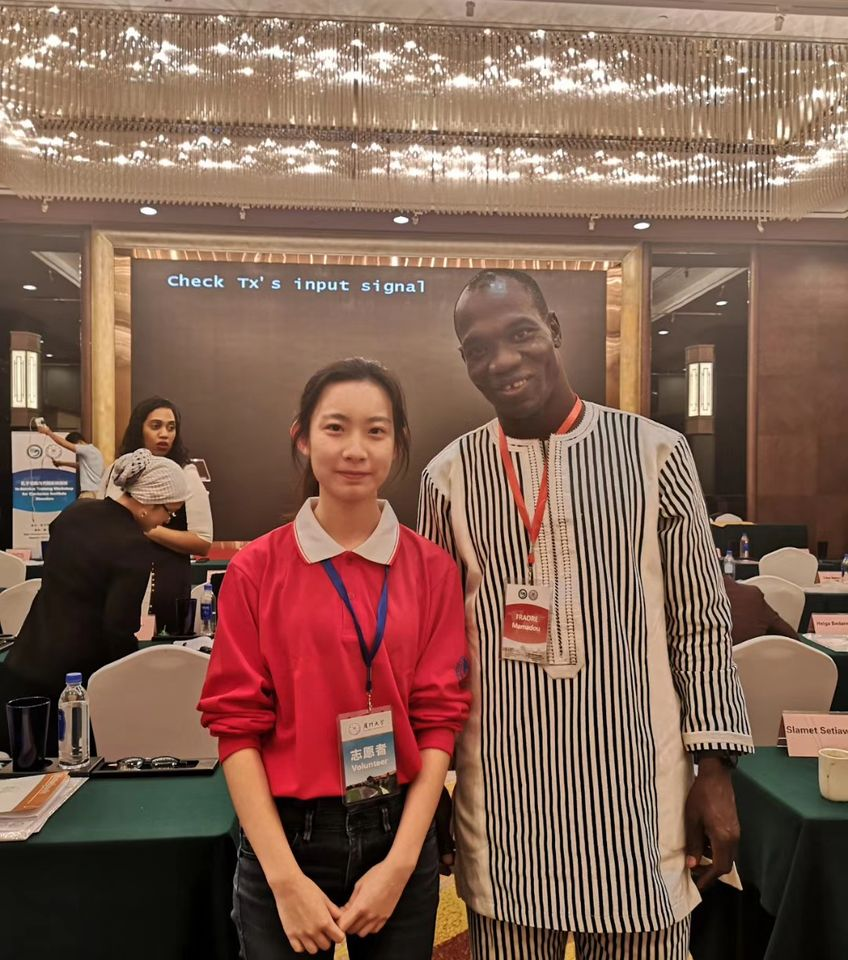
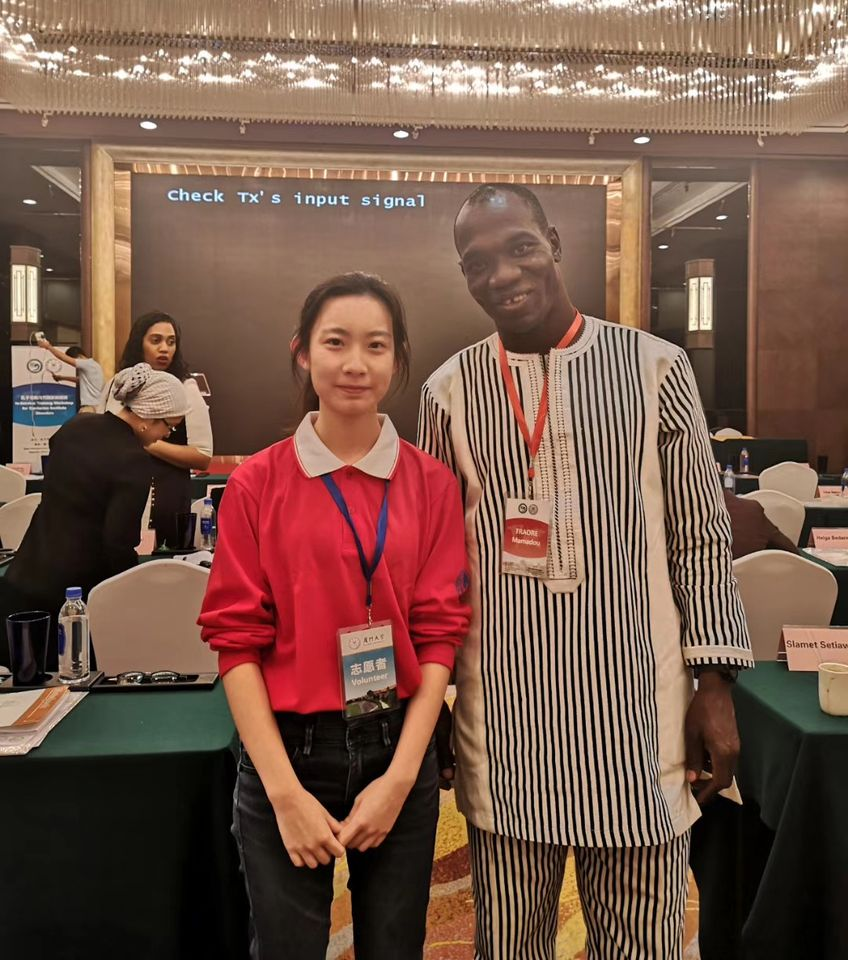
My Story: shift volunteer photo crop down
Claude-Session: https://claude.ai/code/session_01LAErVZXWBNpZfMRLt6JfWz

diff --git a/index.html b/index.html
@@ -210,7 +210,7 @@ footer { margin-block: 64px 40px; font-size: 11px; letter-spacing: .14em; text-t
       <div class="story">
         <p>At eighteen, I moved far from home to Xiamen, an island city in southern China, for college. I wanted to study economics. My Gaokao score (China's college entrance exam) put me in French instead. I started from zero, added economics as a second major, and slowly fell for the language. My favorite college memory is assistant directing The Marriage of Figaro with twenty classmates. We did everything ourselves, and almost 200 people came to watch.</p>
         <div class="story-photos">
-          <figure><img src="photos/xmu-volunteer.jpg" alt="Volunteering at an international workshop in Xiamen" loading="lazy"><figcaption>Volunteering at the Confucius Institute</figcaption></figure>
+          <figure><img src="photos/xmu-volunteer.jpg" alt="Volunteering at an international workshop in Xiamen" loading="lazy" style="object-position: 50% 100%"><figcaption>Volunteering at the Confucius Institute</figcaption></figure>
           <figure><img src="photos/xmu-cast.jpg" alt="Backstage with the cast and crew of The Marriage of Figaro" loading="lazy"><figcaption>Backstage with the cast of <em>The Marriage of Figaro</em></figcaption></figure>
           <figure><img src="photos/xmu-curtain-call.jpg" alt="Curtain call of the French play on stage" loading="lazy"><figcaption>Curtain call</figcaption></figure>
         </div>
